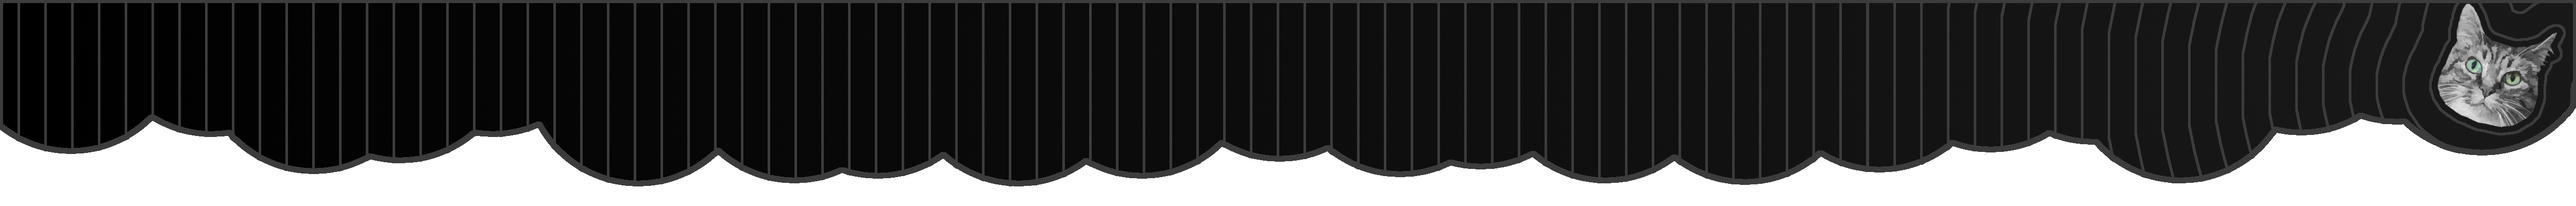
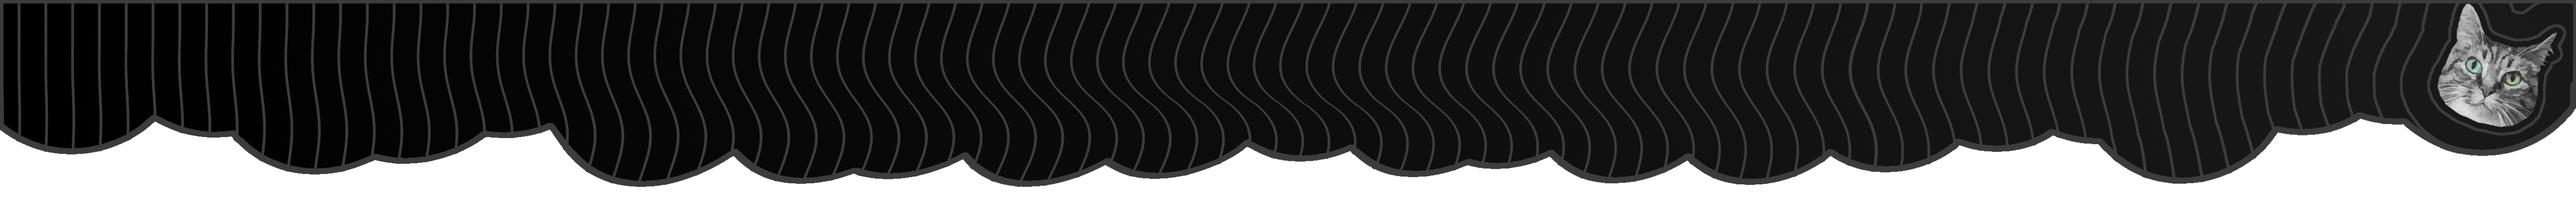
grateful 20251118

Changed region(s): [[0.0, 0.0, 0.936, 0.9]]

diff --git a/posts/grateful/20251118.md b/posts/grateful/20251118.md
@@ -1,0 +1,6 @@
+---
+author: "John Townsend"
+date: "2025-11-18"
+---
+
+For my family. I find myself often feeling grateful for the childhood that I had and for the adulthood and lessons that my parents have helped me through.
